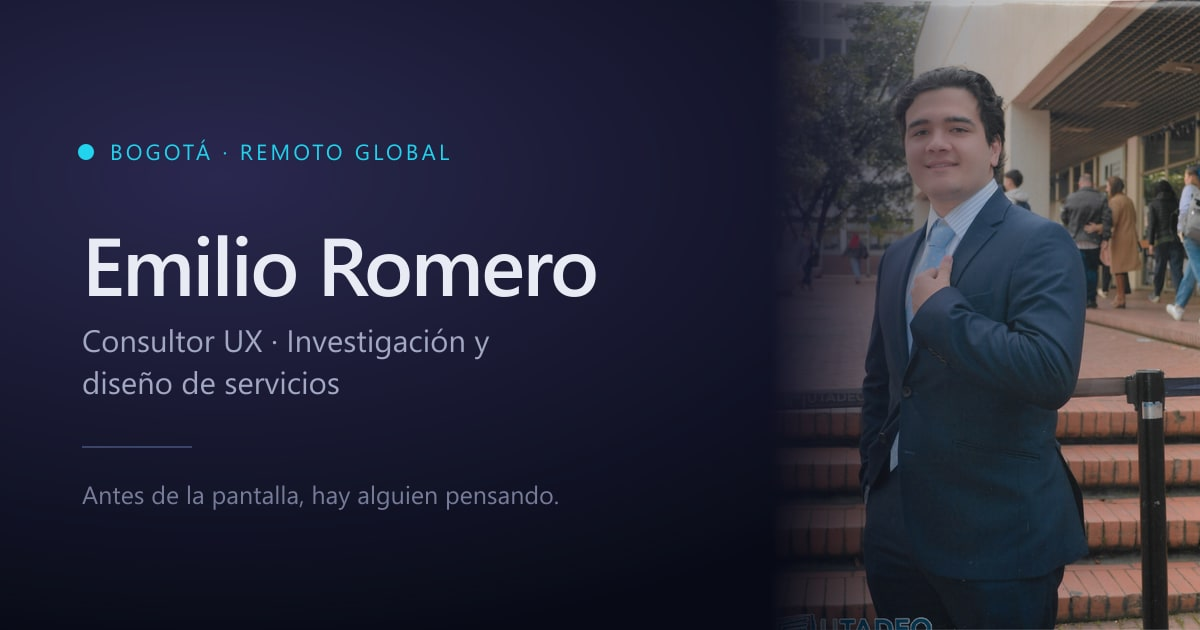
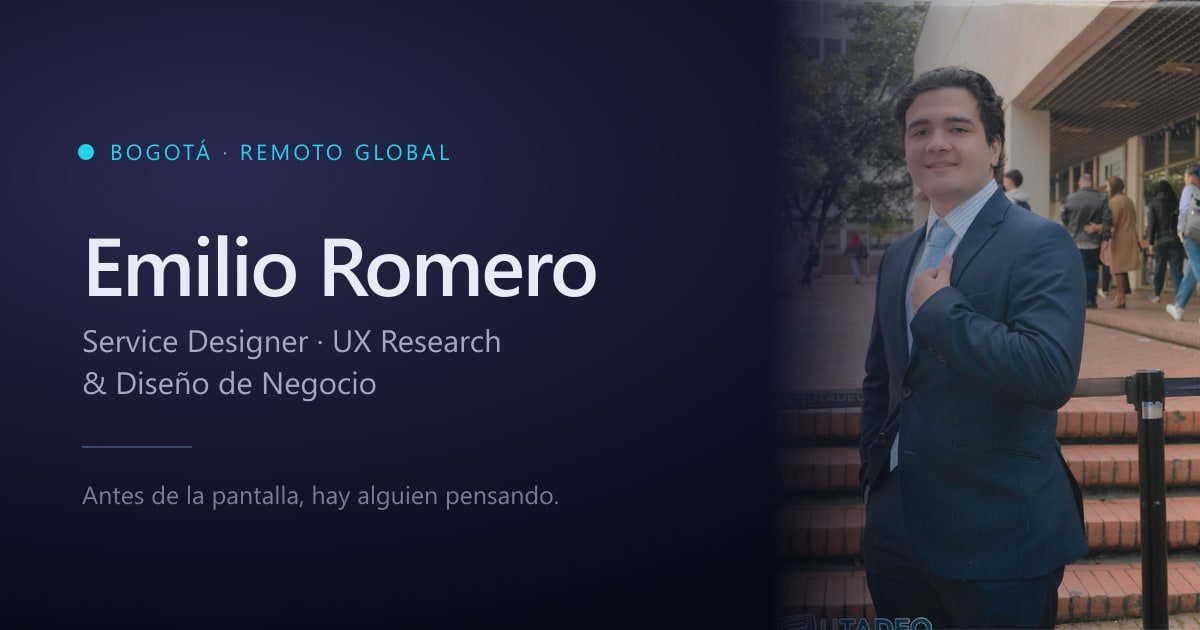
Reposicionar de consultor UX a Service Designer
Ajuste 1 - el posicionamiento no vivia solo en el hero. Estaba en
cinco sitios y cambiar uno solo lo dejaba incoherente:

- heroKicker (ui.ts), es y en
- role de ui.ts, que resulto ser codigo muerto: no se renderiza en
  ninguna parte. Se actualiza igual para que no confunda a quien lo
  lea despues.
- role de Sobre mi (about.ts)
- el <title> de la home, que es lo que muestra Google. Decia
  "Diseñador UX en Bogota".
- public/og.jpg, que lleva el texto pintado dentro. Se regenera con
  scripts/og.cjs, que hasta ahora vivia fuera del repo y ahora queda
  versionado.

Ajuste 2 - la frase que define el enfoque entra como hook de Sobre mi,
que ademas es la meta description de esa pagina. La linea biografica
que ocupaba ese lugar baja al cuerpo, no se pierde.

Ajuste 3 - los chips no eran la lista plana del encargo sino tres
grupos con 25 items. Se conservan los 25 y se suman los cinco que
faltaban: Service blueprints, Journey maps, Diseño de modelos
operativos, Analisis de negocio y Entrevistas y sintesis. Los grupos
se reordenan a investigacion, negocio y herramientas, y dentro de
cada uno mandan los terminos de service design. Las etiquetas de
grupo no se tocan.

Changed region(s): [[0.0617, 0.5127, 0.4317, 0.6333]]

diff --git a/src/content/about.ts b/src/content/about.ts
@@ -112,12 +112,13 @@ export const ABOUT = {
     back: 'Inicio',
     cases: 'Casos',
     kicker: 'Sobre mí',
-    role: 'Consultor UX · Diseño de servicios y experiencia',
-    hook: 'Vengo del UX/UI y el game design, y me moví a la consultoría porque quería entender cómo ocurre la transformación por dentro de una organización, no solo cómo se ve la interfaz al final.',
+    role: 'Service Designer · UX Research & Diseño de Negocio',
+    hook: 'Investigo para entender el negocio y a su gente, y diseño el sistema que resuelve lo que encuentro. No creo que una cosa se pueda hacer bien sin la otra.',
     chips: ['Bogotá, Colombia', 'Remoto / Híbrido', 'Inglés C1', 'Adobe Workfront'],
     k1: 'Quién soy',
     who: [
       'Soy diseñador interactivo de la Universidad Jorge Tadeo Lozano. Lo que me mueve es crear experiencias nuevas: entender de verdad qué necesita la persona del otro lado y traducirlo en herramientas que funcionen, se puedan replicar, se puedan automatizar y dejen un impacto medible.',
+      'Vengo del UX/UI y el game design, y me moví a la consultoría porque quería entender cómo ocurre la transformación por dentro de una organización, no solo cómo se ve la interfaz al final.',
       'Trabajo con diseño centrado en el usuario tanto en producto digital como en las operaciones internas de una empresa. Investigo, prototipo, valido, y me quedo hasta que la gente lo adopta — la parte que casi nunca aparece en un caso de estudio.',
       'Sé programar lo suficiente para no pedir imposibles: HTML, CSS, algo de C#. Diseño y prototipo en Figma, y me interesa el terreno donde la tecnología todavía no tiene convenciones: AR, VR, videojuegos.',
     ],
@@ -169,12 +170,12 @@ export const ABOUT = {
     k4: 'Habilidades',
     skills: [
       {
-        label: 'Plataforma y procesos',
-        items: ['Adobe Workfront', 'Consultoría de implementación', 'Diseño de servicios', 'Rediseño y optimización de procesos', 'Documentación técnica y enablement', 'Análisis de riesgos', 'Gestión de stakeholders'],
+        label: 'Diseño y producto',
+        items: ['UX Research', 'Entrevistas y síntesis', 'Journey maps', 'Service blueprints', 'Arquitectura de información', 'Pruebas de usabilidad', 'Prototipado', 'Design systems', 'Diseño UX/UI', 'Accesibilidad (WCAG)', 'Storytelling y gamificación'],
       },
       {
-        label: 'Diseño y producto',
-        items: ['UX Research', 'Diseño UX/UI', 'Prototipado', 'Design systems', 'Arquitectura de información', 'Pruebas de usabilidad', 'Accesibilidad (WCAG)', 'Storytelling y gamificación'],
+        label: 'Plataforma y procesos',
+        items: ['Diseño de servicios', 'Diseño de modelos operativos', 'Mapeo y rediseño de procesos', 'Análisis de negocio', 'Consultoría de implementación', 'Documentación técnica y enablement', 'Análisis de riesgos', 'Gestión de stakeholders', 'Adobe Workfront'],
       },
       {
         label: 'Herramientas',
@@ -202,12 +203,13 @@ export const ABOUT = {
     back: 'Home',
     cases: 'Cases',
     kicker: 'About me',
-    role: 'UX Consultant · Service & Experience Design',
-    hook: 'My background is UX/UI and game design, and I moved into consulting because I wanted to understand how transformation happens inside an organization, not just how the interface looks at the end.',
+    role: 'Service Designer · UX Research & Business Design',
+    hook: 'I research to understand the business and the people in it, and I design the system that solves what I find. I don’t think either half can be done well without the other.',
     chips: ['Bogotá, Colombia', 'Remote / Hybrid', 'English C1', 'Adobe Workfront'],
     k1: 'Who I am',
     who: [
       "I'm an interactive designer from Universidad Jorge Tadeo Lozano. What drives me is building new experiences: genuinely understanding what the person on the other side needs, and turning that into tools that work, that can be replicated, that can be automated, and that leave measurable impact.",
+      "My background is UX/UI and game design, and I moved into consulting because I wanted to understand how transformation happens inside an organization, not just how the interface looks at the end.",
       "I apply user-centred design to digital products and to a company's internal operations alike. I research, prototype, validate — and stay until people actually adopt it, the part that rarely makes it into a case study.",
       "I code enough not to ask for the impossible: HTML, CSS, some C#. I design and prototype in Figma, and I'm drawn to the ground where technology has no conventions yet: AR, VR, games.",
     ],
@@ -255,12 +257,12 @@ export const ABOUT = {
     k4: 'Skills',
     skills: [
       {
-        label: 'Platform & process',
-        items: ['Adobe Workfront', 'Implementation consulting', 'Service design', 'Process redesign and optimization', 'Technical documentation and enablement', 'Risk analysis', 'Stakeholder management'],
+        label: 'Design & product',
+        items: ['UX research', 'Interviews and synthesis', 'Journey maps', 'Service blueprints', 'Information architecture', 'Usability testing', 'Prototyping', 'Design systems', 'UX/UI design', 'Accessibility (WCAG)', 'Storytelling and gamification'],
       },
       {
-        label: 'Design & product',
-        items: ['UX research', 'UX/UI design', 'Prototyping', 'Design systems', 'Information architecture', 'Usability testing', 'Accessibility (WCAG)', 'Storytelling and gamification'],
+        label: 'Platform & process',
+        items: ['Service design', 'Operating model design', 'Process mapping and redesign', 'Business analysis', 'Implementation consulting', 'Technical documentation and enablement', 'Risk analysis', 'Stakeholder management', 'Adobe Workfront'],
       },
       {
         label: 'Tools',

diff --git a/src/content/ui.ts b/src/content/ui.ts
@@ -55,12 +55,12 @@ export const UI = {
     pincelNota:
       'En estela, la dispersión abre la mancha al envejecer. En ondas, decide hasta dónde llega el anillo. La caída deja el trazo escurrir hacia abajo.',
     skipToContent: 'Saltar al contenido',
-    role: 'Consultoría UX · Investigación · Diseño de servicios',
+    role: 'Service Design · UX Research · Diseño de negocio',
     location: 'Bogotá · Remoto global',
     /* Encima del titular: quien llega desde LinkedIn tiene que saber qué eres
        antes de leer la frase. Va en el estilo discreto del kicker para no
        competir con ella. */
-    heroKicker: 'Consultor UX · Investigación y diseño de servicios — Bogotá · Remoto global',
+    heroKicker: 'Service Designer · UX Research & Diseño de Negocio — Bogotá · Remoto global',
   },
   en: {
     navCases: 'Cases',
@@ -103,9 +103,9 @@ export const UI = {
     pincelNota:
       'On a light trail, spread opens the blob as it ages. On ripples, it sets how far the ring travels. Fall lets the stroke run downwards.',
     skipToContent: 'Skip to content',
-    role: 'UX consulting · Research · Service design',
+    role: 'Service Design · UX Research · Business Design',
     location: 'Bogotá · Remote worldwide',
-    heroKicker: 'UX consultant · Research and service design — Bogotá · Remote worldwide',
+    heroKicker: 'Service Designer · UX Research & Business Design — Bogotá · Remote worldwide',
   },
 } as const;
 
